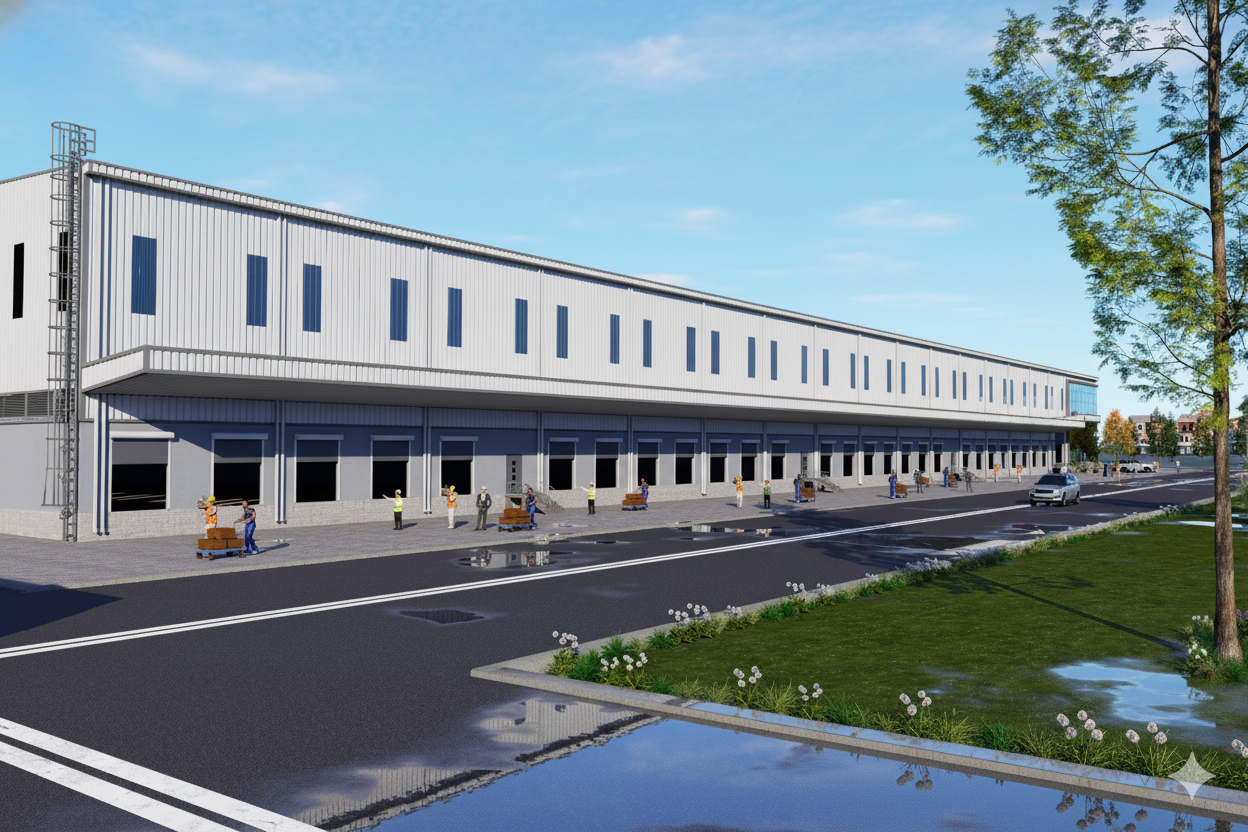
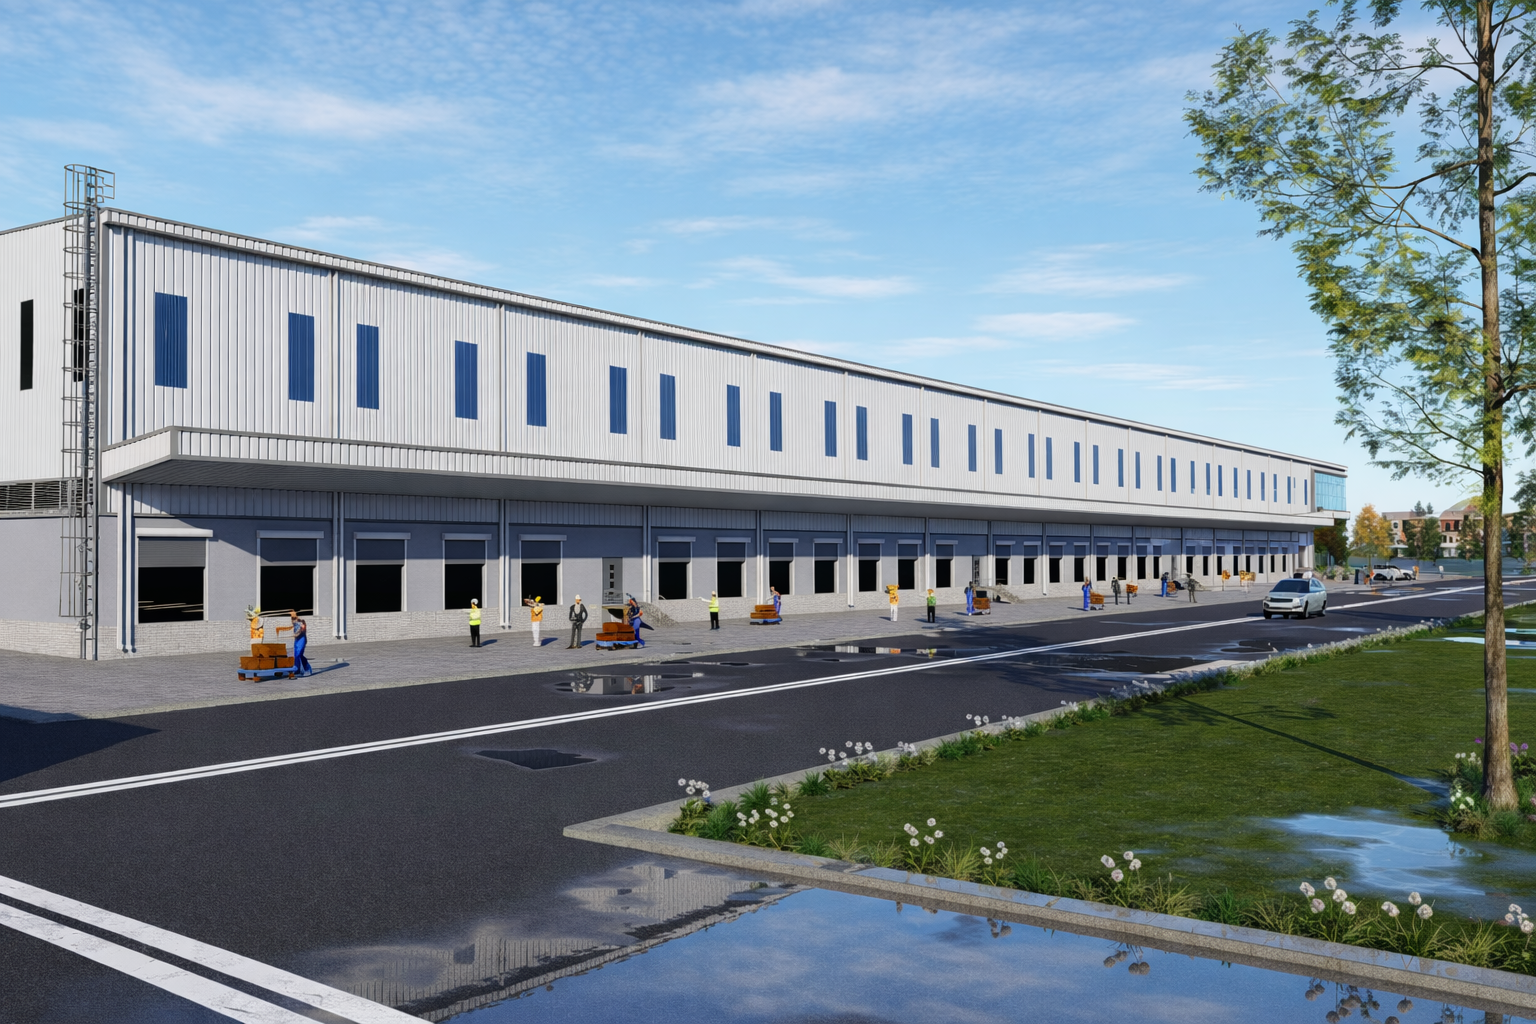
update

diff --git a/src/components/Gallery.tsx b/src/components/Gallery.tsx
@@ -25,7 +25,7 @@ const galleryItems = [
     type: 'image',
     title: 'Main Warehouse Front View',
     description: 'Entrance showing Grade A construction',
-    image: 'https://images.unsplash.com/photo-1567767292278-a4f21aa2d36e?w=1200&q=80',
+    image: '/src/assets/R2_View-9.jpg',
   },
   {
     id: 2,
@@ -33,7 +33,7 @@ const galleryItems = [
     type: 'image',
     title: 'Side View of Facility',
     description: '125,000 sq ft built-up area',
-    image: 'https://images.unsplash.com/photo-1486406146926-c627a92ad1ab?w=1200&q=80',
+    image: '/src/assets/R2_View-8.jpg',
   },
   {
     id: 3,
@@ -41,11 +41,47 @@ const galleryItems = [
     type: 'image',
     title: 'Aerial View',
     description: 'Complete facility overview',
-    image: 'https://images.unsplash.com/photo-1541888946425-d81bb19240f5?w=1200&q=80',
+    image: '/src/assets/R2_View-5.jpg',
+  },
+
+  {
+    id: 4,
+    category: 'exterior',
+    type: 'image',
+    title: 'Warehouse Side Elevation',
+    description: 'Detailed view showcasing the side elevation of the warehouse structure',
+    image: '/src/assets/R2_View-1.jpg',
+  },
+
+  {
+    id: 5,
+    category: 'exterior',
+    type: 'image',
+    title: 'Warehouse Campus View with Water Reservoir',
+    description: 'This panoramic view highlights our warehouse facility with dedicated water reservoir in a well-organized industrial setting',
+    image: '/src/assets/R2_View-10.jpg',
+  },
+
+  {
+    id: 6,
+    category: 'features',
+    type: 'image',
+    title: 'Utility & Support Services Block',
+    description: 'Dedicated to core utility and support functions, featuring water storage tanks, treatment and pumping systems, electrical facilities, and staff support rooms',
+    image: '/src/assets/R2_View-11.jpg',
+  },
+
+{
+    id: 7,
+    category: 'exterior',
+    type: 'image',
+    title: 'Utility & Support Services Block',
+    description: 'Dedicated to core utility and support functions, featuring water storage tanks, treatment and pumping systems, electrical facilities, and staff support rooms',
+    image: '/src/assets/R2_View-12.jpg',
   },
   // Interior Warehouse
   {
-    id: 4,
+    id: 8,
     category: 'interior',
     type: 'image',
     title: 'Main Warehouse Space',
@@ -53,7 +89,7 @@ const galleryItems = [
     image: 'https://images.unsplash.com/photo-1586528116311-ad8dd3c8310d?w=1200&q=80',
   },
   {
-    id: 5,
+    id: 9,
     category: 'interior',
     type: 'image',
     title: 'Storage Area',
@@ -61,7 +97,7 @@ const galleryItems = [
     image: 'https://images.unsplash.com/photo-1586864387967-d02ef85d93e8?w=800&q=80',
   },
   {
-    id: 6,
+    id: 10,
     category: 'interior',
     type: 'image',
     title: 'Mezzanine Floor',
@@ -70,32 +106,32 @@ const galleryItems = [
   },
   // Loading Docks & Features
   {
-    id: 7,
+    id: 11,
     category: 'features',
     type: 'image',
     title: 'Loading Docks',
     description: '27 loading docks with dock levellers',
-    image: 'https://images.unsplash.com/photo-1615876234886-fd9a39fda97f?w=800&q=80',
+    image: '/src/assets/main_3.png',
   },
   {
-    id: 8,
+    id: 12,
     category: 'features',
     type: 'image',
     title: 'Dock Area',
     description: '28-meter driveway, 4-feet dock height',
-    image: 'https://images.unsplash.com/photo-1600891964092-4316c288032e?w=800&q=80',
+    image: '/src/assets/R2_View-4.jpg',
   },
   {
-    id: 9,
+    id: 13,
     category: 'features',
     type: 'image',
-    title: 'Flooring Detail',
-    description: 'FM-2 industrial grade flooring',
-    image: 'https://images.unsplash.com/photo-1581578731548-c64695cc6952?w=800&q=80',
+    title: 'Warehouse Entrance & Administrative Block',
+    description: 'Warehouse Entrance & Administrative Block',
+    image: '/src/assets/R2_View-7.jpg',
   },
   // Drone Video
   {
-    id: 10,
+    id: 14,
     category: 'exterior',
     type: 'video',
     title: 'Drone Video Tour',

diff --git a/src/components/Hero.tsx b/src/components/Hero.tsx
@@ -2,7 +2,7 @@ import { useState, useEffect } from "react";
 import { Button } from "@/components/ui/button";
 import { ArrowRight, Star, MapPin, Check } from "lucide-react";
 import { Drawer, DrawerTrigger, DrawerContent, DrawerClose, DrawerHeader, DrawerTitle } from "@/components/ui/drawer";
-import mainImage from "@/assets/Main_image.png";
+import mainImage from "@/assets/Main_image.jpg";
 import mainImage2 from "@/assets/main_2.png";
 import mainImage3 from "@/assets/main_3.png";
 import mainImage4 from "@/assets/main_4.png";
@@ -10,7 +10,7 @@ import mainImage5 from "@/assets/main_5.png";
 
 // Array of warehouse images in your preferred order
 const heroImages = [
-  mainImage,   // Main_image.png
+  mainImage,   // Main_image.jpg
   mainImage3,  // main_3.png
   mainImage2,  // main_2.png
   mainImage5,  // main_5.png
